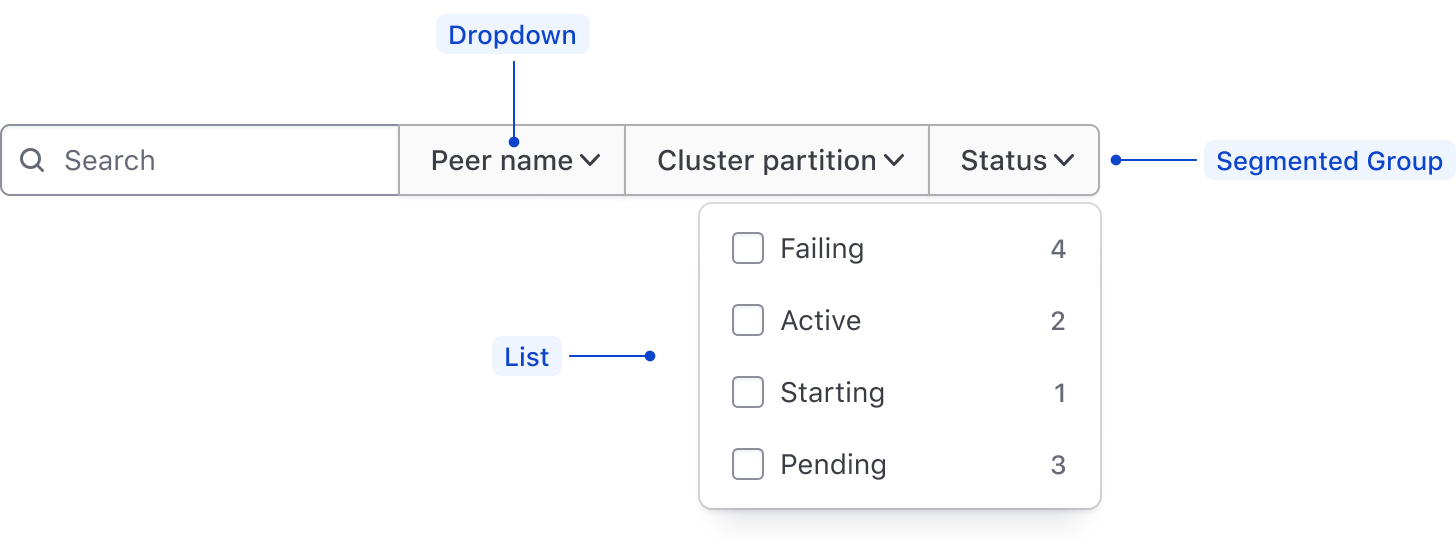
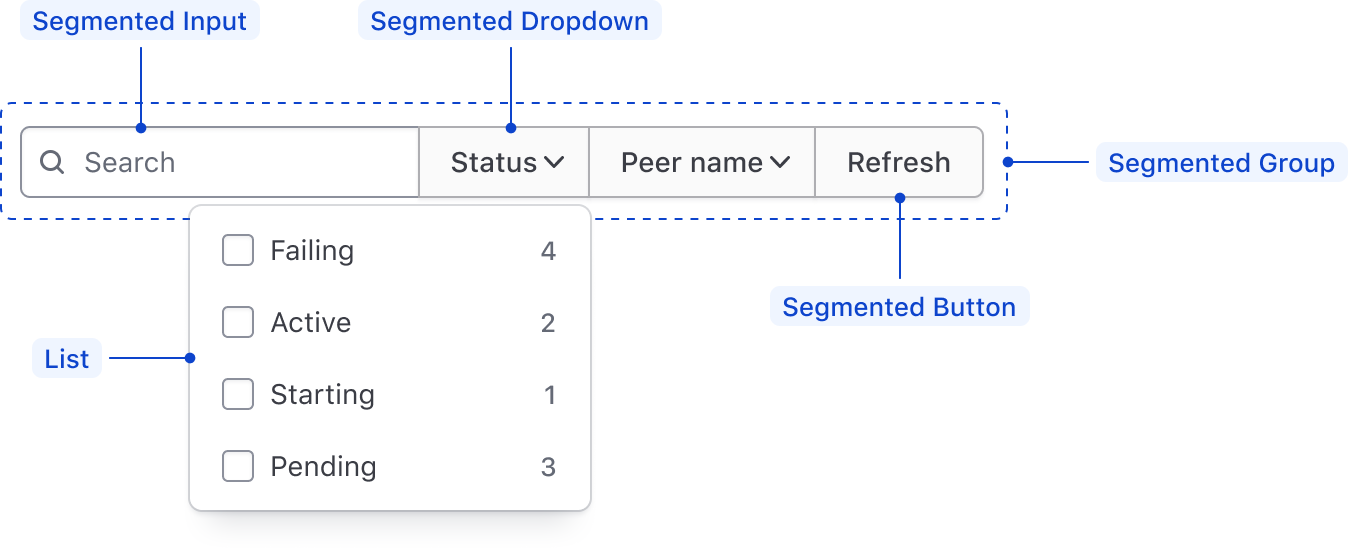
Filter bar anatomy

diff --git a/website/docs/patterns/filter-patterns/partials/specifications/anatomy.md b/website/docs/patterns/filter-patterns/partials/specifications/anatomy.md
@@ -1,0 +1,35 @@
+## Filter bar
+
+Filters positioned in a filter bar orientation consist of one or [Dropdowns](/components/dropdown), [Buttons](/components/button), and [Inputs](/components/form/text-input) that are usually wrapped in a [Segmented Group](/components/segmented-group). Depending on the complexity of the data set, a filter bar can consist of a single dropdown in simple use-cases, or multiple Segmented Groups wrapping multiple Segmented elements in complex scenario.
+
+![Simple filter bar anatomy](/assets/patterns/filter-patterns/filter-bar-anatomy-01.png)
+
+| Element | Usage |
+|---------|-------|
+| [Segmented Group](/components/segmented-group) | Wraps the Segmented Dropdown, Button, and Input to enforce a connected visual experience and group similar or related filters. |
+| Segmented Input | Allows for searching and filtering within data set on string and text values |
+| Segmented Button | Allows functions to be performed on the data set, e.g., refreshing the dataset. |
+| Segmented Dropdown | Displays the filter parameter on the toggle button and numerous filterable values in a dropdown list. |
+| [List](/components/dropdown#list) | Coupled with the [Dropdown](/components/dropdown), the List displays filterable values that correspond with the parameter in the Dropdown Toggle |
+
+![Multiple groups in a filter bar](/assets/patterns/filter-patterns/filter-bar-anatomy-02.png)
+
+![Functions within a filter bar](/assets/patterns/filter-patterns/filter-bar-anatomy-03.png)
+
+## Filter sidebar
+
+## Applied filters
+
+## Data set
+
+## Pagination
+
+## Pattern layout
+
+![Generic pattern layout with filter bar](/assets/patterns/filter-patterns/pattern-anatomy-generic-filter-bar.png)
+
+![Specific pattern layout with filter bar](/assets/patterns/filter-patterns/pattern-anatomy-specific-filter-bar.png)
+
+![Generic pattern layout with a sidebar](/assets/patterns/filter-patterns/pattern-anatomy-generic-sidebar.png)
+
+![Specific pattern layout with a sidebar](/assets/patterns/filter-patterns/pattern-anatomy-specific-sidebar.png)
